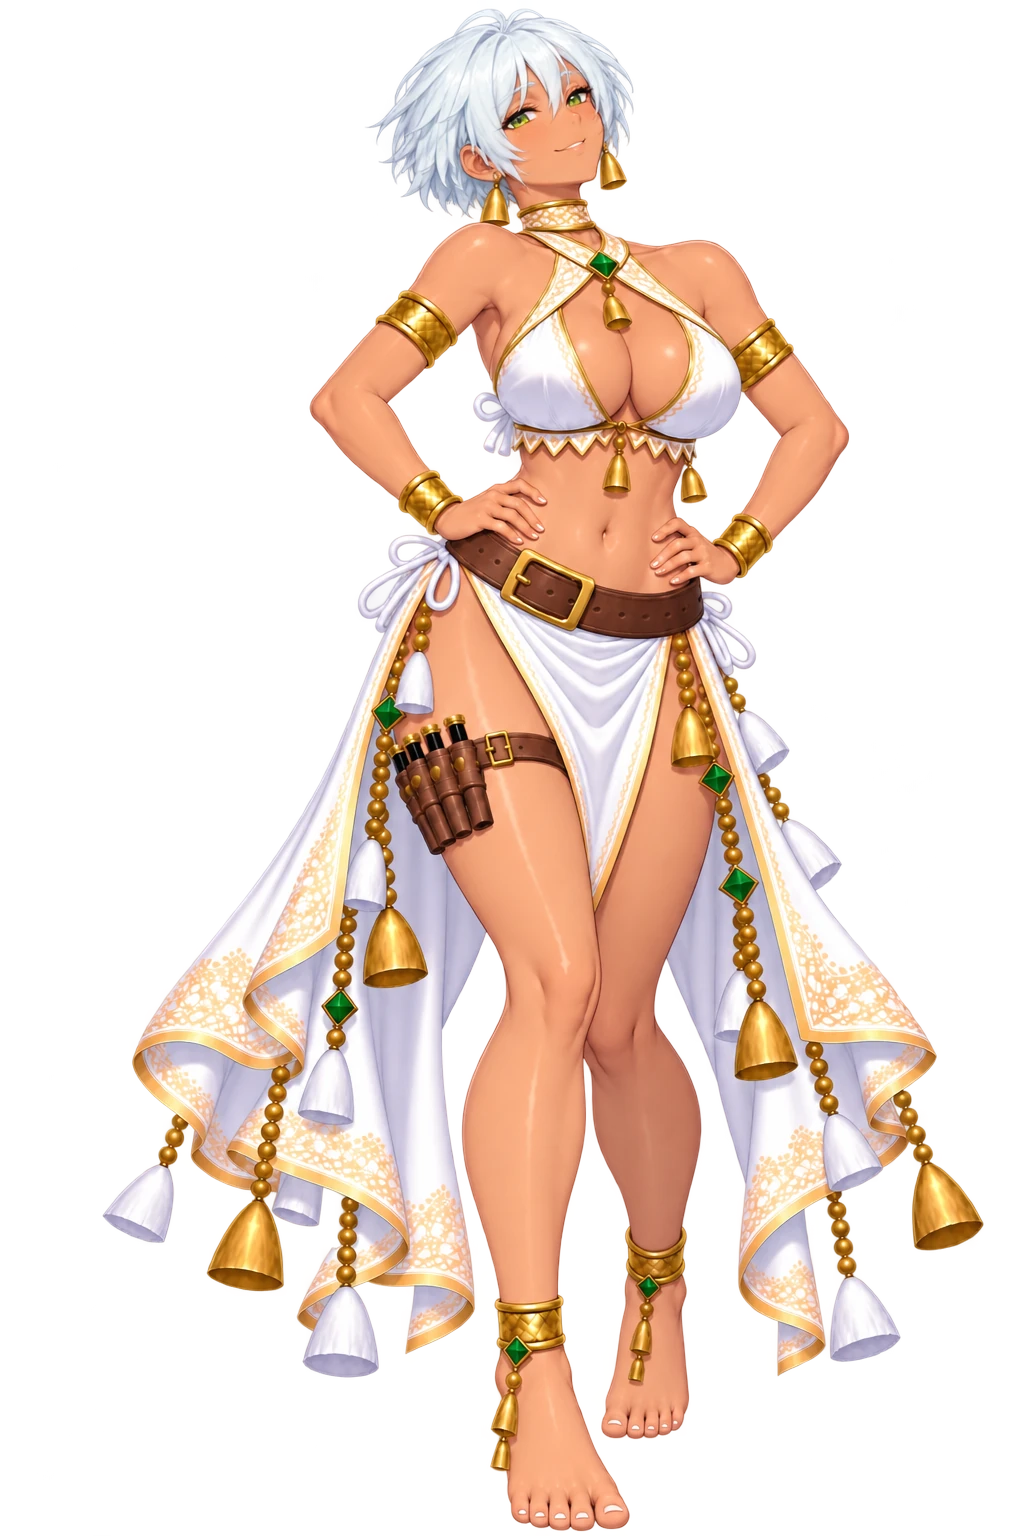
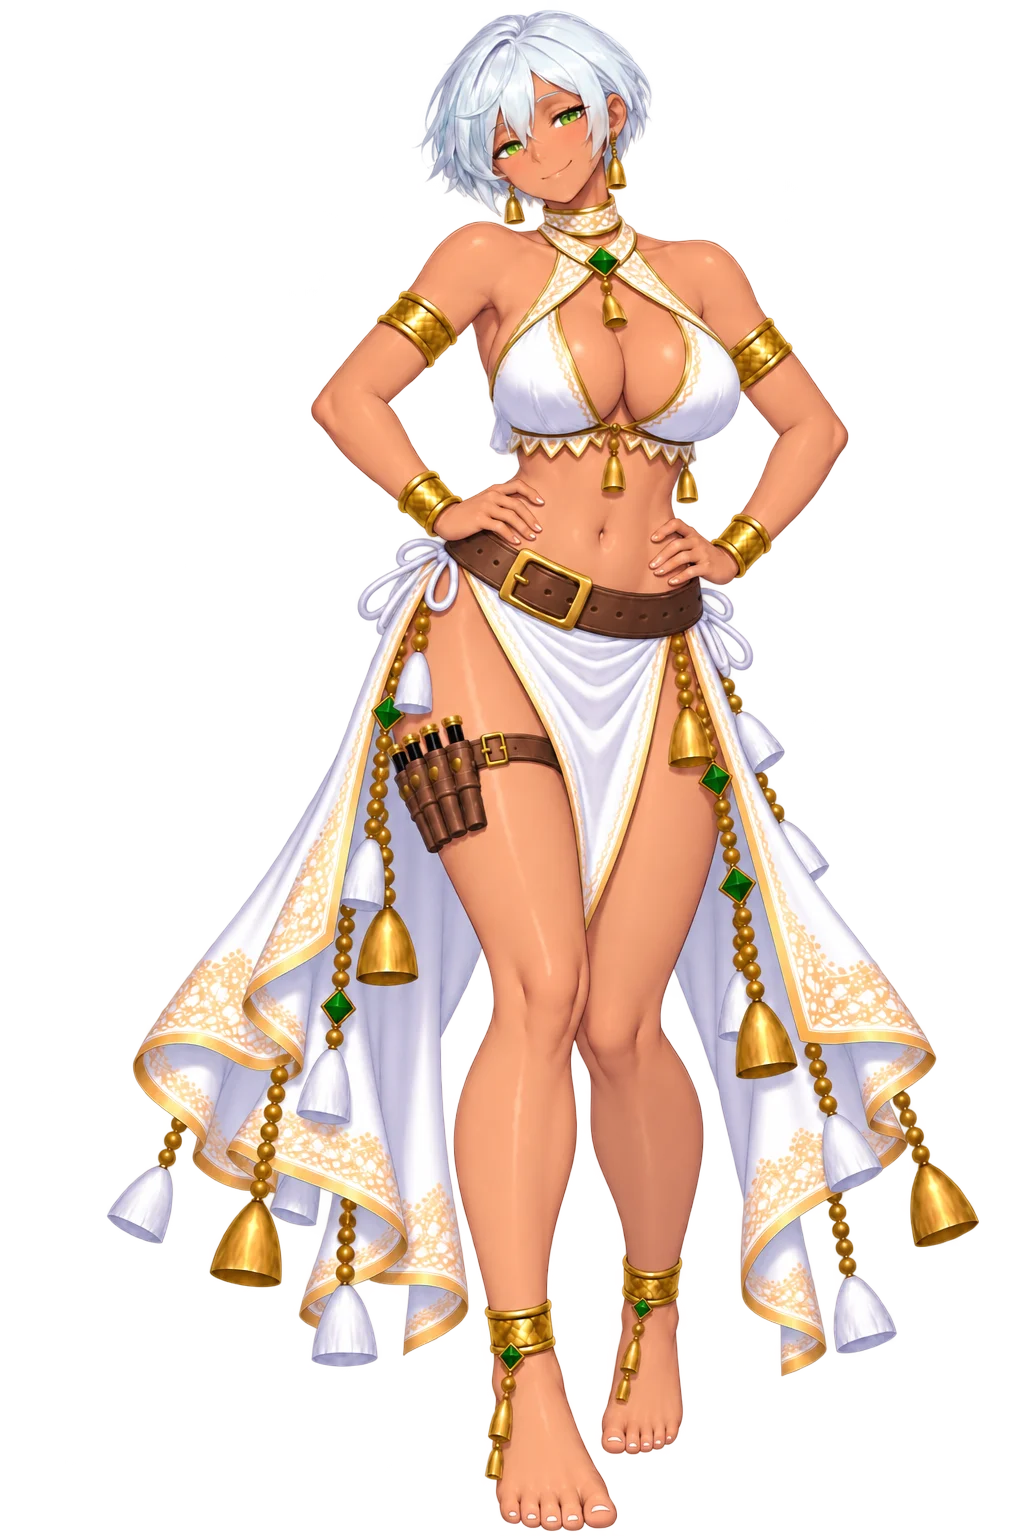
art(索拉娜): smile 回上一版（d556b53），09-22 重製版進回收區；HANDOFF 17 請程式端跳 ?v=4

Changed region(s): [[0.125, 0.0, 0.9688, 1.0], [0.375, 0.1875, 0.4375, 0.2188], [0.0938, 0.7812, 0.125, 0.8125]]

diff --git a/HANDOFF.md b/HANDOFF.md
@@ -45,6 +45,8 @@
 >    程式端要做的（等 Ray 給卡）：`config.enemies` 各一張敵人卡，`kind:'human'`（結算「已擊敗」、**不吃**降臨／淨化演出）；圖路徑直接指 `resources/enemy/man_thug_*.webp`。全是新檔，不用跳 `ASSET_VER`。
 > 16. ✅ **-1767 已跳 `?v=3`** **（09-26 晚，Mac）索拉娜 `remind` 回上一版**（Ray：「索的 remind 修壞，回上一版」）—— `resources/si/sorana_si_remind.webp` 換回 d556b53（09-20 軟遮罩版），09-22 的重製版（3f5a10b）進 `_recycle/`。
 >    程式端：**`script/speakers.js` 的 `remind` 路徑 `?v=2` → `?v=3`**（同名覆蓋，不跳版號玩家永遠拿到修壞的那版）；取景值 `measure_si.py` 重量＝`top:1 bot:1525 fx:0.523`（現行寫 `top:4`，差 3px 可改可不改）。
+> 17. **（09-26 晚，Mac）索拉娜 `smile` 也回上一版**（Ray：「smile 也修壞了，回復」）—— `resources/si/sorana_si_smile.webp` 換回 d556b53，09-22 第三輪重製版（82caf63）進 `_recycle/`。
+>    程式端：**`script/speakers.js` 的 `smile` 路徑 `?v=3` → `?v=4`**；取景 `measure_si.py` 重量＝`top:9 bot:1530 fx:0.528`，與現行完全相同、不用改。
 > 美術現況與換機器交接：**`resources/_HANDOFF_ART_20260925.md`**（§七＝米夏九張；§八＝廢城兩次退稿到定風格；**§九＝聖索菲亞 9 張＋廢城 55 張全交、產線的坑**）（Windows 那台收工版；09-24 那份 §六～§八是細節）。做完把這一塊刪掉或標成已接。
 
 > ✅ **`tomb_misha_met` 東泊那一邊 -1717 接上了**（Ray 定案：AB 順序長談在「滿足滿足！」收場、
